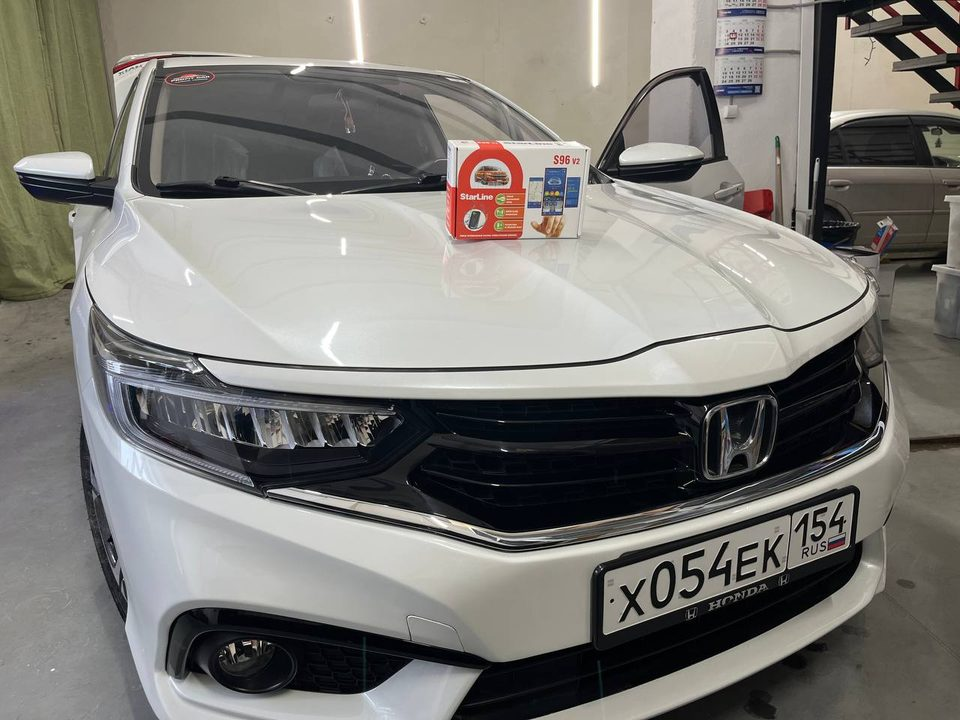
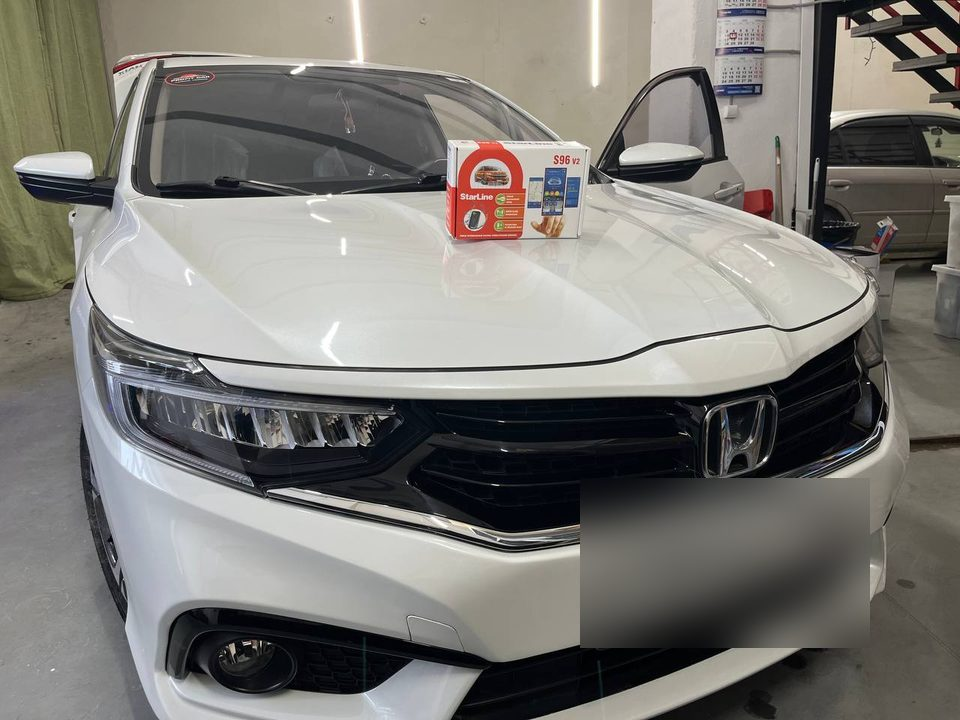
StarLine: правки по независимой проверке
Убраны неверные обещания: S96 V2 управляется из приложения, брелок
к ней докупается отдельно; GSM в S96 V2 встроен, у A93 и E96 V2 —
в версиях с GSM. Исправлен alt у Highlander, из ответа про правый
руль убрана неподтверждённая Raize, у E96 V2 добавлена работа на
Tahoe. Строка «доп. устройства от 3 000» заменена реальными
позициями прайса: маяк или трекер, замок капота. Размыт госномер
на фото Envix. В реестре — противоречие цен на живой странице
сигнализаций (12 000 и 9 000 с автозапуском).

Changed region(s): [[0.5938, 0.6417, 0.9062, 0.9167]]

diff --git a/services/starline/index.html b/services/starline/index.html
@@ -10,7 +10,7 @@
   Description: Ставим сигнализации StarLine S96 V2, E96 V2 и A93 с автозапуском и управлением с телефона. Установка с автозапуском — от 12 000 ₽, гарантия 12 месяцев. Сухарная 35/13.
   H1:          Установка StarLine в Новосибирске
   Keywords:    установка старлайн, установка starline новосибирск, установка сигнализации старлайн, сигнализация старлайн с автозапуском, starline s96 v2 установка, starline a93 установка, starline e96 установка, старлайн с автозапуском цена
-  Цены:        за установку, с /services/alarm_installation 12.10.2026: без автозапуска от 8 000 ₽, с автозапуском от 12 000 ₽, иммобилайзер от 6 000 ₽, доп. устройства от 3 000 ₽
+  Цены:        за установку, из прайса /services/alarm_installation 12.10.2026: с автозапуском от 12 000 ₽, без автозапуска от 8 000 ₽, иммобилайзер от 6 000 ₽, маяк/трекер и замок капота от 3 000 ₽. На той же странице во вкладках «с автозапуском от 9000» — какая цена актуальна, решает владелец
   Стиль:       светлый, по стилистике starline.ru — решение владельца 12.10.2026. Логотипы и тексты StarLine не используются.
   Спрос:       Вордстат, Новосибирск, 11.10.2026: установка старлайн 1 033, сигнализация старлайн с автозапуском 798, установка сигнализации старлайн 453, starline a93 1 821, starline s96 825
 -->
@@ -275,7 +275,7 @@
     <div class="tsb-tiles">
       <article class="tsb-tile">
         <h3>С автозапуском</h3>
-        <p>Машина прогреется к вашему выходу: запуск с брелока, по таймеру или по температуре двигателя. Зимой в Новосибирске это главная причина ставить StarLine.</p>
+        <p>Машина прогреется к вашему выходу: запуск из приложения или с брелока, по таймеру или по температуре двигателя. Зимой в Новосибирске это главная причина ставить StarLine.</p>
         <span class="tsb-tile__price">от 12 000 ₽</span>
       </article>
       <article class="tsb-tile">
@@ -300,17 +300,17 @@
       <article class="tsb-model">
         <span class="tsb-model__tag">Ставим чаще всего</span>
         <h3>StarLine S96 V2</h3>
-        <p>Сигнализация с автозапуском. Выпускается в версиях с GSM и GPS: тогда машиной можно управлять из приложения и видеть, где она стоит.</p>
+        <p>Сигнализация с автозапуском и встроенным GSM: управляется из приложения StarLine, в комплекте метки владельца. Брелок управления докупается отдельно. В версиях с GPS приложение показывает, где машина.</p>
         <span class="tsb-model__works">9 наших работ, среди них Toyota Raize, Harrier, Corolla Cross, C-HR, Highlander, Mazda CX-3 и Skoda Superb.</span>
       </article>
       <article class="tsb-model">
         <h3>StarLine E96 V2</h3>
         <p>Сигнализация с автозапуском. На Kia Seltos ставили версию с GSM и GPS: управление и местоположение машины в приложении.</p>
-        <span class="tsb-model__works">Работа: Kia Seltos.</span>
+        <span class="tsb-model__works">Работы: Kia Seltos, Chevrolet Tahoe.</span>
       </article>
       <article class="tsb-model">
         <h3>StarLine A93</h3>
-        <p>Сигнализация с автозапуском и ЖК-брелоком: состояние машины видно на экране брелока. Подходит, если управление с телефона не нужно.</p>
+        <p>Сигнализация с автозапуском и ЖК-брелоком: состояние машины видно на экране брелока. Управление с телефона — в версиях с GSM.</p>
         <span class="tsb-model__works">Подберём под вашу машину.</span>
       </article>
     </div>
@@ -348,7 +348,7 @@
     <h2 class="tsb-title" id="tsb-price-h">Стоимость установки</h2>
     <div class="tsb-prices">
       <div class="tsb-row">
-        <div class="tsb-row__name">Сигнализация с автозапуском<span>Прогрев с брелока, по таймеру и по температуре</span></div>
+        <div class="tsb-row__name">Сигнализация с автозапуском<span>Прогрев по команде, по таймеру и по температуре</span></div>
         <div class="tsb-row__price">от 12 000 ₽</div>
         <a class="tsb-btn" href="tel:+79954379266">Записаться на установку</a>
       </div>
@@ -363,9 +363,14 @@
         <a class="tsb-btn" href="tel:+79954379266">Записаться на установку</a>
       </div>
       <div class="tsb-row">
-        <div class="tsb-row__name">Дополнительные устройства и датчики<span>Монтаж того, чего нет в комплекте</span></div>
+        <div class="tsb-row__name">Маяк или трекер<span>Чтобы найти машину, если её угнали</span></div>
         <div class="tsb-row__price">от 3 000 ₽</div>
-        <a class="tsb-btn" href="tel:+79954379266">Уточнить цену</a>
+        <a class="tsb-btn" href="tel:+79954379266">Записаться на установку</a>
+      </div>
+      <div class="tsb-row">
+        <div class="tsb-row__name">Замок капота<span>Закрывает доступ к блоку и проводке под капотом</span></div>
+        <div class="tsb-row__price">от 3 000 ₽</div>
+        <a class="tsb-btn" href="tel:+79954379266">Записаться на установку</a>
       </div>
     </div>
     <p class="tsb-note">Цены «от» за установку, с сайта на 12.10.2026. Комплект StarLine подбираем под машину, итоговую сумму называем после подбора.</p>
@@ -409,7 +414,7 @@
         <span>Honda Envix 2020: StarLine S96 и Teyes CC3 2K</span>
       </a>
       <a class="tsb-work" href="https://teyes-sibir.ru/toyota_highlander_teyes_cc3l_pro">
-        <img src="../../assets/img/works/starline_highlander.jpg" width="960" height="720" loading="lazy" decoding="async" alt="Комплект StarLine на капоте Toyota Highlander, вид из салона через лобовое стекло">
+        <img src="../../assets/img/works/starline_highlander.jpg" width="960" height="720" loading="lazy" decoding="async" alt="Комплект StarLine S96 V2 на капоте Toyota Highlander у лобового стекла">
         <span>Toyota Highlander: StarLine S96 V2, Teyes CC3L Pro и регистратор</span>
       </a>
     </div>
@@ -434,15 +439,15 @@
       </details>
       <details name="tsb-faq">
         <summary>Какую StarLine выбрать: A93, S96 V2 или E96 V2?</summary>
-        <p>Если хватает брелока и управление с телефона не нужно, подойдёт A93. Если хотите запускать машину и следить за ней из приложения, выбирайте S96 V2 или E96 V2 с GSM, а с GPS приложение ещё и покажет, где стоит машина. Чаще всего мы ставим S96 V2.</p>
+        <p>Если привычнее брелок с экраном, подойдёт A93, а управление с телефона у неё есть в версиях с GSM. S96 V2 управляется из приложения сразу, брелок к ней докупается отдельно. E96 V2 с приложением работает в версии с GSM. Если нужно видеть, где машина, берите версию с GPS. Чаще всего мы ставим S96 V2.</p>
       </details>
       <details name="tsb-faq">
         <summary>Можно ли управлять StarLine с телефона?</summary>
-        <p>Да, в комплектах с GSM. Запуск двигателя, постановка на охрану и уведомления работают через приложение StarLine. С GPS в приложении видно, где машина.</p>
+        <p>Да. В S96 V2 GSM встроен, у A93 и E96 V2 — в версиях с GSM. Запуск двигателя, постановка на охрану и уведомления работают через приложение StarLine. С GPS в приложении видно, где машина.</p>
       </details>
       <details name="tsb-faq">
         <summary>Можно ли настроить автозапуск по таймеру или по температуре?</summary>
-        <p>Да. При установке настраиваем запуск по таймеру и по температуре двигателя и показываем, как менять настройки с брелока, а в комплектах с GSM — и в приложении.</p>
+        <p>Да. При установке настраиваем запуск по таймеру и по температуре двигателя и показываем, как менять настройки — в приложении StarLine или с брелока, смотря какой комплект.</p>
       </details>
       <details name="tsb-faq">
         <summary>Сколько времени занимает установка StarLine?</summary>
@@ -454,7 +459,7 @@
       </details>
       <details name="tsb-faq">
         <summary>Ставите ли StarLine на праворульные японские машины?</summary>
-        <p>Да. Среди наших работ — праворульные Toyota Raize, Toyota Harrier и Mazda CX-3.</p>
+        <p>Да. Среди наших работ — праворульные Toyota Harrier и Mazda CX-3.</p>
       </details>
       <details name="tsb-faq">
         <summary>Какая гарантия на установку?</summary>
@@ -636,7 +641,7 @@
      "name": "Какую StarLine выбрать: A93, S96 V2 или E96 V2?",
      "acceptedAnswer": {
       "@type": "Answer",
-      "text": "Если хватает брелока и управление с телефона не нужно, подойдёт A93. Если хотите запускать машину и следить за ней из приложения, выбирайте S96 V2 или E96 V2 с GSM, а с GPS приложение ещё и покажет, где стоит машина. Чаще всего мы ставим S96 V2."
+      "text": "Если привычнее брелок с экраном, подойдёт A93, а управление с телефона у неё есть в версиях с GSM. S96 V2 управляется из приложения сразу, брелок к ней докупается отдельно. E96 V2 с приложением работает в версии с GSM. Если нужно видеть, где машина, берите версию с GPS. Чаще всего мы ставим S96 V2."
      }
     },
     {
@@ -644,7 +649,7 @@
      "name": "Можно ли управлять StarLine с телефона?",
      "acceptedAnswer": {
       "@type": "Answer",
-      "text": "Да, в комплектах с GSM. Запуск двигателя, постановка на охрану и уведомления работают через приложение StarLine. С GPS в приложении видно, где машина."
+      "text": "Да. В S96 V2 GSM встроен, у A93 и E96 V2 — в версиях с GSM. Запуск двигателя, постановка на охрану и уведомления работают через приложение StarLine. С GPS в приложении видно, где машина."
      }
     },
     {
@@ -652,7 +657,7 @@
      "name": "Можно ли настроить автозапуск по таймеру или по температуре?",
      "acceptedAnswer": {
       "@type": "Answer",
-      "text": "Да. При установке настраиваем запуск по таймеру и по температуре двигателя и показываем, как менять настройки с брелока, а в комплектах с GSM — и в приложении."
+      "text": "Да. При установке настраиваем запуск по таймеру и по температуре двигателя и показываем, как менять настройки — в приложении StarLine или с брелока, смотря какой комплект."
      }
     },
     {
@@ -676,7 +681,7 @@
      "name": "Ставите ли StarLine на праворульные японские машины?",
      "acceptedAnswer": {
       "@type": "Answer",
-      "text": "Да. Среди наших работ — праворульные Toyota Raize, Toyota Harrier и Mazda CX-3."
+      "text": "Да. Среди наших работ — праворульные Toyota Harrier и Mazda CX-3."
      }
     },
     {

diff --git a/docs/СТРАНИЦЫ.md b/docs/СТРАНИЦЫ.md
@@ -9,7 +9,7 @@
 | Подогрев сидений | `/services/seat-heating/` | `/services/seat-heating` | **на сайте** с 11.10.2026 | своя цена, время установки, фото работ |
 | Мониторы на спинку сидений | `/services/rear-seat-monitors/` | `/services/rear-seat-monitors` | **на сайте** с 11.10.2026 | свои цены и модели мониторов, фото работ |
 | Потолочные мониторы | `/services/ceiling-monitors/` | `/services/ceiling-monitors` | **на сайте** с 11.10.2026 | свои цены, список машин, фото работ |
-| Установка StarLine | `/services/starline/` | `/services/starline` | готова, черновик в Tilda (страница 298679109), не опубликована | цена комплекта с GSM; какие модели StarLine держите в наличии |
+| Установка StarLine | `/services/starline/` | `/services/starline` | готова, на github.io; черновик в Tilda (страница 298679109) создан без спроса, не опубликован — ждёт решения владельца | какая цена с автозапуском актуальна: 12 000 или 9 000; цена комплекта с GSM; какие модели StarLine в наличии |
 
 ## Перенесены на teyes-sibir.ru
 
@@ -26,7 +26,7 @@
 
 **11.10.2026 — SEO на всех семи страницах.** Ключевые слова (META `keywords` / строка «Keywords:»), title, description, один H1 — на всех; проверено по живому сайту. Блоки реальных работ с фото и alt: регистратор — 4 работы (Honda CR-V, VW T-Roc, Harrier 240G, Mercedes W166), доводчики — TANK 500. Для подогрева, мониторов и электропривода реальных фото работ на сайте нет — блок работ не ставили.
 
-**12.10.2026 — страница «Установка StarLine».** Первая страница под спрос на сигнализации (план: https://claude.ai/artifact/D28FMs7vH7EVoVUpP17Czv). Цены — с живой `/services/alarm_installation` на 12.10.2026: с автозапуском от 12 000 ₽, без автозапуска от 8 000 ₽, иммобилайзер от 6 000 ₽, доп. устройства от 3 000 ₽. В базе компании (`TEYES_SIBIR_КОМПАНИЯ.md`) цены сигнализаций старые (1 500 / 9 000 / 14 000) — брать с сайта. Работы: 6 фото со страниц работ со StarLine (коробка комплекта в кадре), ещё 6 ссылок. Модели — только то, что подтверждено: S96 V2 (9 работ), E96 V2 (Kia Seltos, GSM GPS), A93. Черновик в Tilda создан загрузчиком; публикация — по слову владельца.
+**12.10.2026 — страница «Установка StarLine».** Первая страница под спрос на сигнализации (план: https://claude.ai/artifact/D28FMs7vH7EVoVUpP17Czv). Цены — с живой `/services/alarm_installation` на 12.10.2026: с автозапуском от 12 000 ₽, без автозапуска от 8 000 ₽, иммобилайзер от 6 000 ₽, доп. устройства от 3 000 ₽. На живой `/services/alarm_installation` цены противоречат друг другу: прайс — с автозапуском от 12 000, без автозапуска от 8 000; вкладки на десктопе — с автозапуском от 9 000, стандартные от 1 500, с обратной связью от 14 000; вкладки на телефоне — у всех «от 1 500». Какая цена актуальна, решает владелец; на странице StarLine пока цены из прайса. Работы: 6 фото со страниц работ со StarLine (коробка комплекта в кадре), ещё 6 ссылок. Модели — только то, что подтверждено: S96 V2 (9 работ), E96 V2 (Kia Seltos, GSM GPS), A93. Черновик в Tilda создан загрузчиком; публикация — по слову владельца.
 
 ## Цены: откуда взяты
 
